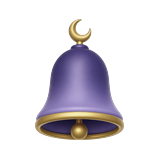
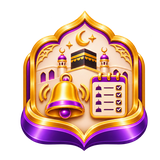
New art for Umrah Resources, Qibla, Prayer Reminders, Makkah Live, Madinah Live, Location and Hijri Calendar
Art supplied by the owner, installed as-is and resized to match the rest.

Two of these were pointing at files they shared with another tool, which
is how an icon change silently becomes two. Umrah Resources was using
pilgrimage.png, which is also the Pilgrimage graphic on the rites
screens; Makkah Live was using holy-sites.png, which is also the Holy
site channels graphic. Both now have their own file and the co-tenants
keep the art they had.

Hijri Calendar keeps hijri.png, shared with two spelling variants of the
same key that nothing renders, so all three move together.

diff --git a/App.tsx b/App.tsx
@@ -1037,9 +1037,14 @@ const TOOL_IMAGES:Record<string,any>={
   'Khatam':require('./assets/tool-icons/khatam.png'),
   'Sunnah Prayers':require('./assets/tool-icons/sunnah-prayers.png'),
   'Privacy lock':require('./assets/tool-icons/privacy-lock.png'),
-  'Umrah Resources':require('./assets/tool-icons/pilgrimage.png'),
+  /* Given its own file. It was pointing at pilgrimage.png, which is also
+     the Pilgrimage graphic on the rites screens, so replacing that art
+     would have changed those with it. */
+  'Umrah Resources':require('./assets/tool-icons/umrah-resources.png'),
   'Madinah Live':require('./assets/tool-icons/madinah-live.png'),
-  'Makkah Live':require('./assets/tool-icons/holy-sites.png'),
+  /* Likewise its own file: holy-sites.png is the Holy site channels
+     graphic too. */
+  'Makkah Live':require('./assets/tool-icons/makkah-live.png'),
   /* Given its own file rather than sharing Fajr's. The tracker used to point
      at prayer-fajr.png, which is also the Fajr row in the prayer list, so
      replacing that art would have changed the Fajr icon with it. */
@@ -1148,9 +1153,9 @@ const TOOL_IMAGES_DARK:Record<string,any>={
   'Khatam':require('./assets/tool-icons/khatam-dark.png'),
   'Sunnah Prayers':require('./assets/tool-icons/sunnah-prayers-dark.png'),
   'Privacy lock':require('./assets/tool-icons/privacy-lock-dark.png'),
-  'Umrah Resources':require('./assets/tool-icons/pilgrimage-dark.png'),
+  'Umrah Resources':require('./assets/tool-icons/umrah-resources-dark.png'),
   'Madinah Live':require('./assets/tool-icons/madinah-live-dark.png'),
-  'Makkah Live':require('./assets/tool-icons/holy-sites-dark.png'),
+  'Makkah Live':require('./assets/tool-icons/makkah-live-dark.png'),
   'Salah Tracker':require('./assets/tool-icons/salah-tracker-dark.png')
 };
 function ToolGraphic({tool,size=64}:{tool:string;size?:number}){const{dark}=useTheme();const image=dark?(TOOL_IMAGES_DARK[tool]||TOOL_IMAGES[tool]):TOOL_IMAGES[tool];const enter=useRef(new Animated.Value(.78)).current;const fade=useRef(new Animated.Value(0)).current;useEffect(()=>{Animated.parallel([Animated.spring(enter,{toValue:1,friction:6,tension:75,useNativeDriver:true}),Animated.timing(fade,{toValue:1,duration:350,useNativeDriver:true})]).start()},[]);return <Animated.View accessibilityElementsHidden style={[s.graphicFrame,{width:size,height:size,opacity:fade,transform:[{scale:enter}]}]}>{image?<Image source={image} resizeMode="contain" style={{width:size-6,height:size-6}}/>:ico('sparkles-outline',size*.48,C.green)}</Animated.View>}
